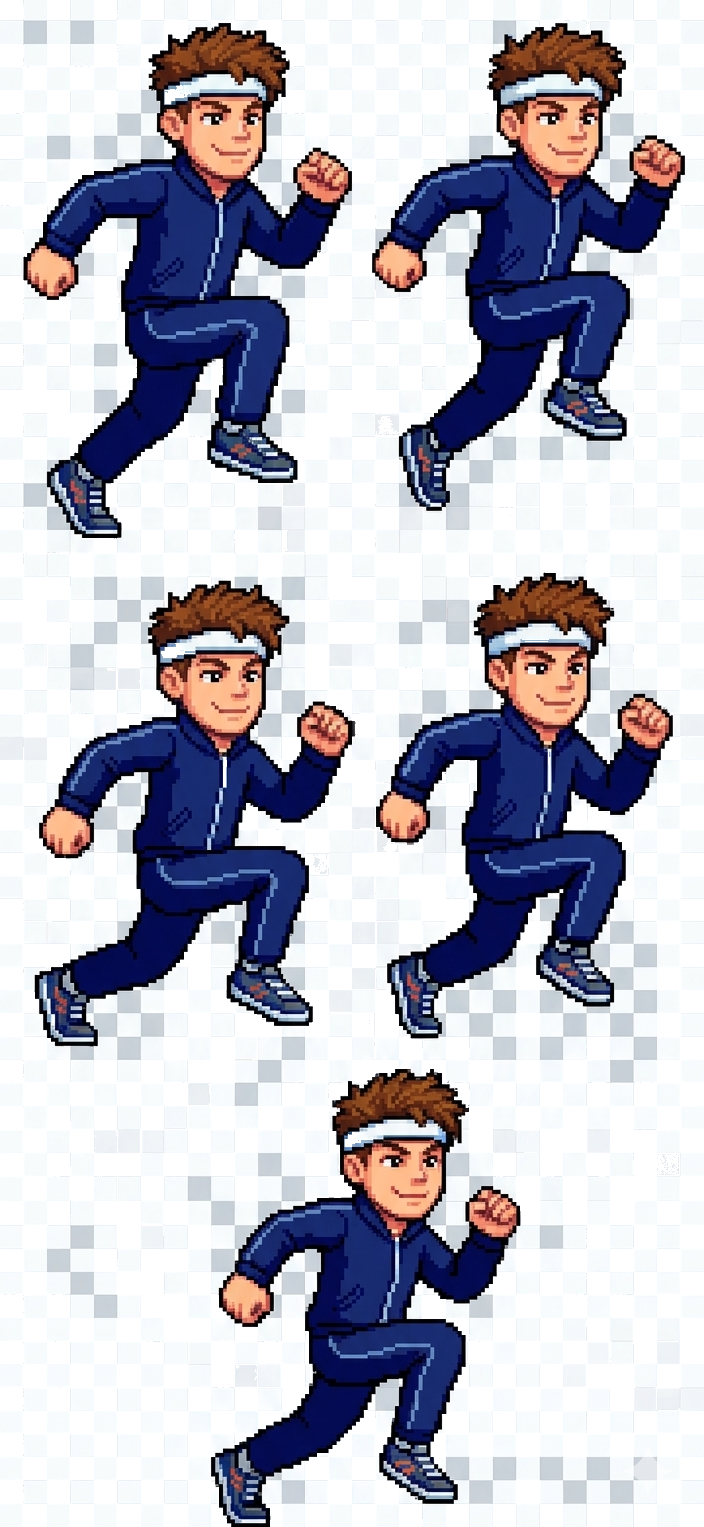
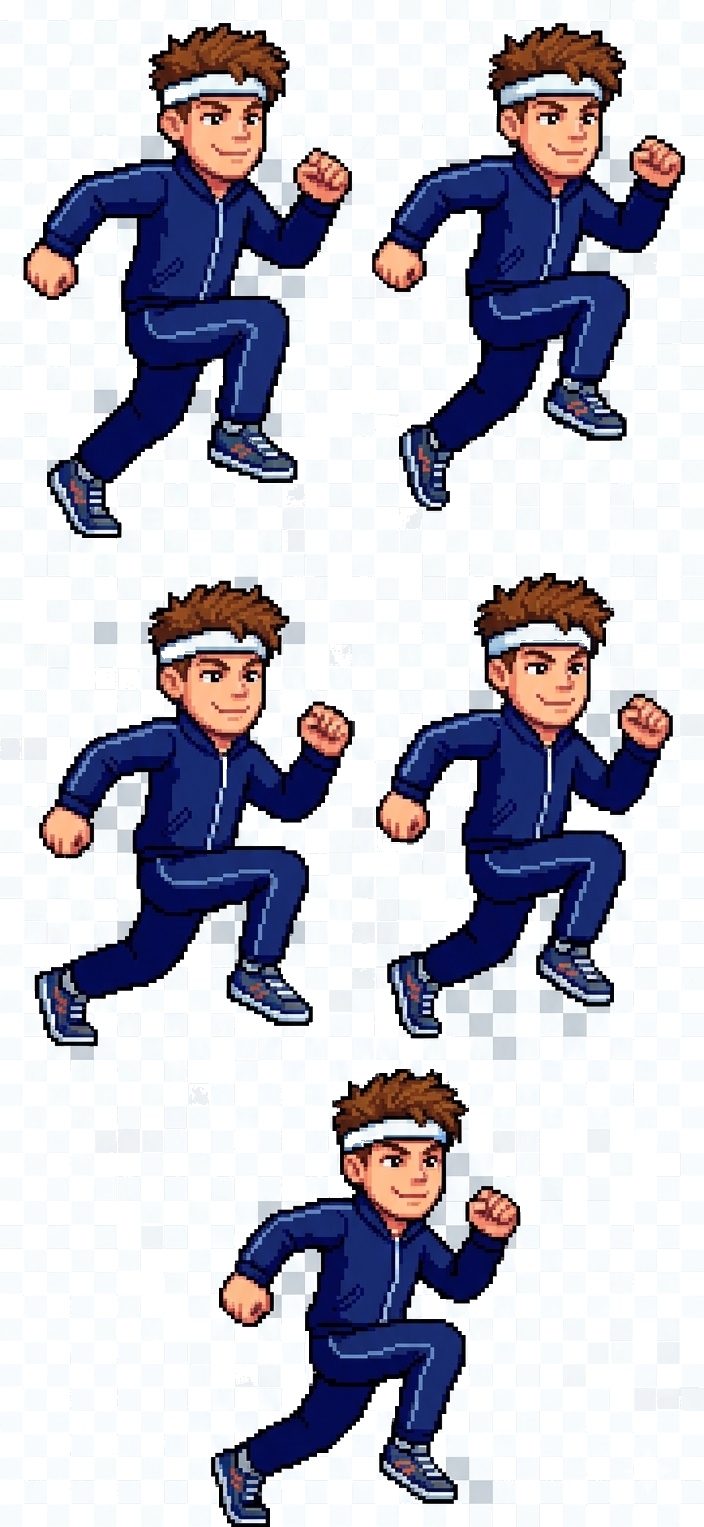
Fix Jack/Joey boxes, fix villain Brody size, cache bust
- Re-processed jack.png and joey.png with tolerance 90 (was 80)
  Jack: removed 282k additional pixels
  Joey: removed 358k additional pixels
- Villain Brody: setTexture before setDisplaySize, added setBodySize(28,28)
- Cache buster v=1773623687 on jack.png and joey.png URLs

diff --git a/deadwave.html b/deadwave.html
@@ -540,8 +540,8 @@ class GameScene extends Phaser.Scene {
     this.load.spritesheet('sister','sister.png?v=1773607616',{frameWidth:216,frameHeight:288});
     this.load.spritesheet('coach','footballcoach.png?v=1773607616',{frameWidth:306,frameHeight:204});
     this.load.spritesheet('waylon','waylon.png',{frameWidth:352,frameHeight:509});
-    this.load.spritesheet('jack','jack.png',{frameWidth:352,frameHeight:763});
-    this.load.spritesheet('joey','joey.png',{frameWidth:352,frameHeight:509});
+    this.load.spritesheet('jack','jack.png?v=1773623687',{frameWidth:352,frameHeight:763});
+    this.load.spritesheet('joey','joey.png?v=1773623687',{frameWidth:352,frameHeight:509});
     this.load.spritesheet('braden','braden.png',{frameWidth:704,frameHeight:381});
     this.load.image('gem','shard.png?v=1773607616');
     this.load.image('bullet','bullet.png?v=1773607616');
@@ -780,7 +780,7 @@ class GameScene extends Phaser.Scene {
       case 'jack':e.setDisplaySize(80,80);e.hp=Math.floor(450*hm);e.spd=65;e.dmg=10;e.gd=3;e.sv=90;e.burstColor=0x00aa44;if(this.anims.exists('jack_walk'))e.play('jack_walk');e.jackCD=0;e.jackStealCD=0;break;
       case 'joey':e.setDisplaySize(80,80);e.hp=Math.floor(380*hm);e.spd=110;e.dmg=8;e.gd=2;e.sv=70;e.burstColor=0x4444ff;if(this.anims.exists('joey_run'))e.play('joey_run');e.joeyCD=0;e.joeyBurst=false;break;
       case 'braden':e.setDisplaySize(85,85);e.hp=Math.floor(600*hm);e.spd=75;e.dmg=14;e.gd=5;e.sv=200;e.burstColor=0xff6600;if(this.anims.exists('braden_film'))e.play('braden_film');e.bradenLiveCD=0;e.bradenSpawnCD=0;e.bradenLaughCD=0;break;
-      case 'brody_villain':e.setDisplaySize(75,75);e.hp=Math.floor(550*hm);e.spd=90;e.dmg=14;e.gd=4;e.sv=150;e.burstColor=0x00ffcc;e.setTexture('player');if(this.anims.exists('brody_idle'))e.play('brody_idle');e.isBrodyVillain=true;break;
+      case 'brody_villain':e.setTexture('player');e.setDisplaySize(75,75);e.setBodySize(28,28);e.hp=Math.floor(550*hm);e.spd=90;e.dmg=14;e.gd=4;e.sv=150;e.burstColor=0x00ffcc;if(this.anims.exists('brody_idle'))e.play('brody_idle');e.isBrodyVillain=true;break;
     }
     if(!e.hp||e.hp<=0){console.error('Enemy 0 HP on spawn! type:',tex);e.hp=100;}
     e.maxHp=e.hp;
